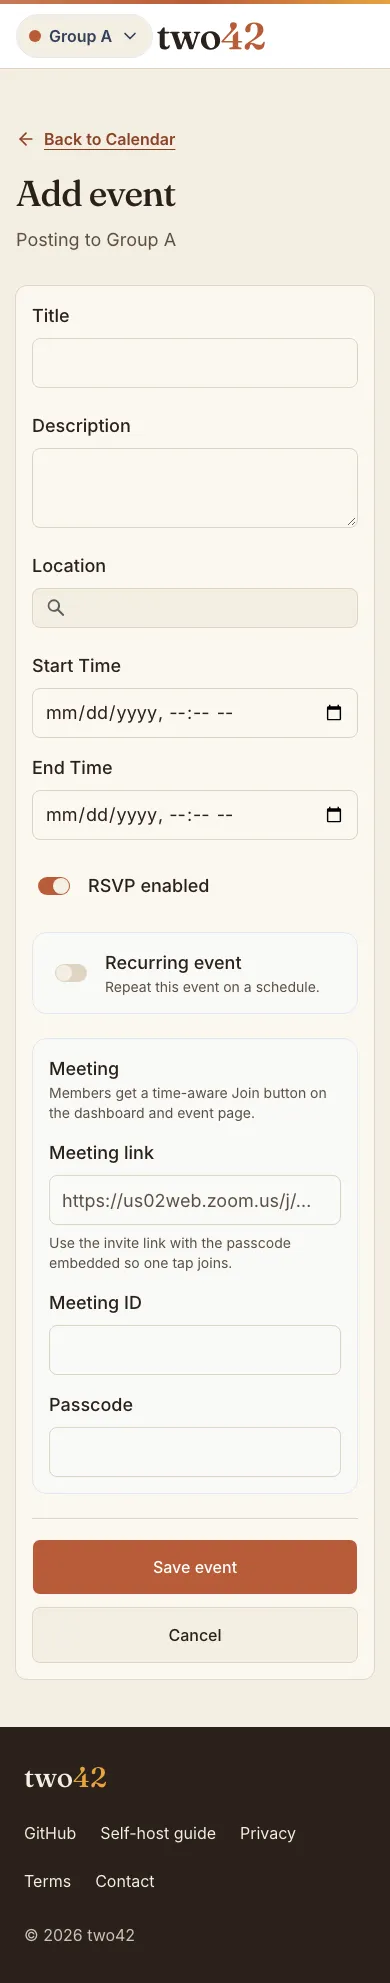
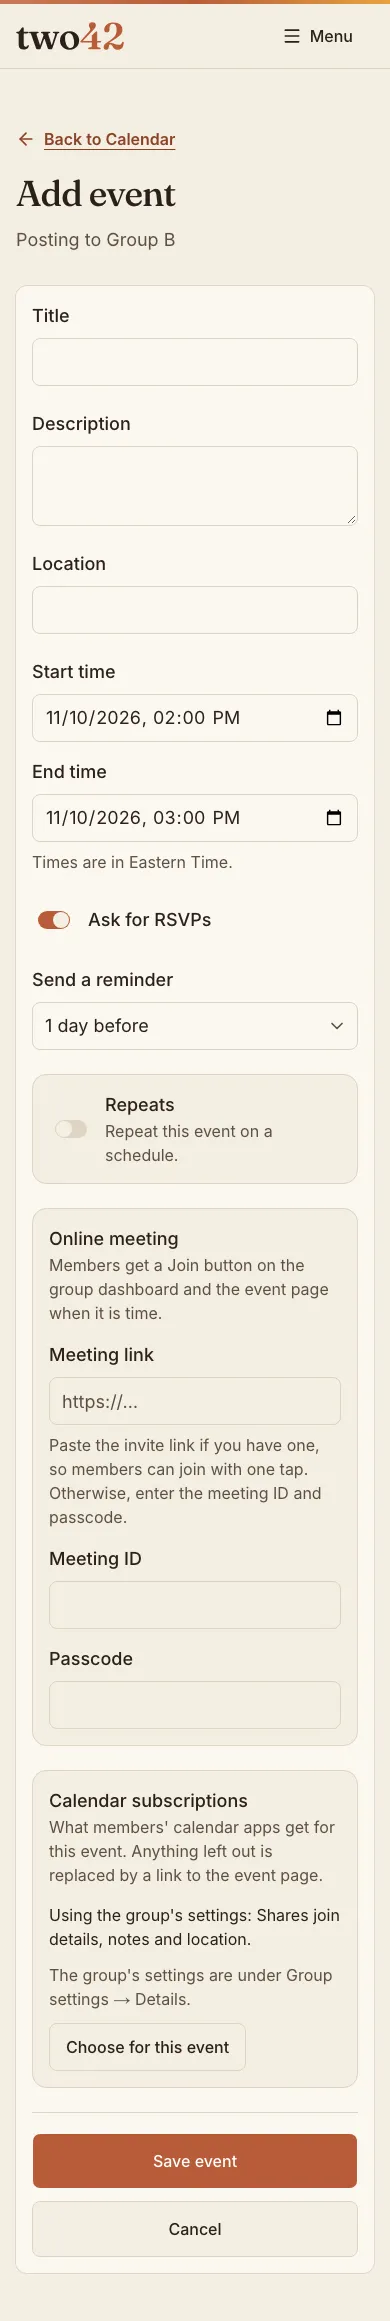
docs(design): update the design doc and agent notes to match the shipped frame (#744)
* docs(design): update the design doc and agent notes to match the shipped frame

Retake the Invite links page-frame image from seeded data so it shows the
Group settings sidebar and the title at the 272px edge, swap the back-link
example for a label a page renders, correct the wordmark and signed-out
Sign in descriptions, and record that Lint is a required check on main.

* docs: describe Lint as a required check in the agent notes

* docs(design): retake the Add event phone image on the shipped frame

The image showed a group name beside the wordmark with no Menu button and
a footer under a signed-in page, against the text around it. Retaken at
390 from seeded data, signed in as the seeded leader of Group B.

* docs(design): remove the screenshots the design doc does not use

Two earlier pull requests committed their before and after evidence beside
the images DESIGN.md embeds. Nothing references these nineteen; pull request
evidence is hosted outside the repo.

diff --git a/docs/design/DESIGN.md b/docs/design/DESIGN.md
@@ -104,8 +104,8 @@ Every page is built from the same frame, so moving between sibling pages never m
 - **The account block** (`components/layout/AccountBlock.tsx`) shows the person's photo, or their initials, and their name; an operator, who has no profile in any church, is shown by their sign-in address. Its menu lists, in this order: **My profile**, **Settings**, **Church admin** (church admins only), **Platform** (operators only), then **Help**, **Privacy**, **Terms**, then **Sign out**, set apart as the last item. A row is listed only when it opens for that person, so a pending person gets Help, Privacy, Terms and Sign out, and an operator outside a church gets Platform and those same rows. The menu opens on click, tap, Enter or Space and closes with Escape. It never opens on hover.
 - **Sign out** appears once in the frame, in that menu. Signed in, there is no footer; Settings repeats Help, Privacy and Terms.
 - **Church admin, Platform and Group settings pages** use the same frame with their own page list. Church admin and Platform are led by the way back to Home. Group settings, for the group's leaders only, is led by the way back to the group, named for it, and lists Details, Requests, Privacy and joining, Invite links, Teams and Labels, with the number of requests to join waiting on Requests. Group settings opens on Details.
-- **The wordmark** takes a member to the page that lists all of their groups. Its link is at least 44px tall in the sidebar, as the 42 mark, and in the phone bar.
-- **Signed out**, the header offers **Sign in** at every width and the page ends with the footer.
+- **The wordmark** takes a member to Home (`/dashboard`): the page that lists all of their groups, or for a member of one group, that group's Home. Its link is at least 44px tall in the sidebar, as the 42 mark, and in the phone bar.
+- **Signed out**, the header offers **Sign in** at every width, except on the sign-in page itself, and the page ends with the footer.
 
 Who sees which row is decided on the server, from the signed-in person's own row (`components/layout/account.ts`, built in `app/layout.tsx`).
 
@@ -145,7 +145,7 @@ Why this order:
 
 - **Title** — espresso Fraunces, the page's only `h1`.
 - **Subtitle** — optional, one line of plain copy.
-- **Back link** — optional, above the title, labelled `Back to {parent page name}` ("Back to Group settings", "Back to Calendar"), at a 44px target. A back link always names its parent page; there is no bare "Back".
+- **Back link** — optional, above the title, labelled `Back to {parent page name}` ("Back to Lessons", "Back to Calendar"), at a 44px target. A back link always names its parent page; there is no bare "Back".
 - **Primary action** — optional, right of the title on desktop and full width below the subtitle on phone.
 
 **Form pages** take their title from `PageHeader`, never from a `CardTitle`, and end with Save + Cancel: the primary Save first, Cancel returning to the back link's page.

diff --git a/CLAUDE.md b/CLAUDE.md
@@ -82,7 +82,7 @@ Full rationale, the helper inventory, and the deviations register: [`docs/securi
   - **Where in the inventory matters.** `npm run guard:tenancy` parses the `## App routes and pages` and `## Lib helpers` sections and cross-checks every row against an actual `createServiceClient()` call site *and* the site count in the heading — a row there naming anything else fails the build twice over. `## Edge Functions` and `## Operator scripts` are not parsed; document those there, or in prose, and do not "fix" a guard failure by editing the script's exclusion lists.
 - A change that moves a tenancy or visibility boundary a signed-in member can see — RLS on people or content, the group frame, the directory scope — needs a Playwright spec in `e2e/` asserting the rendered consequence (names, options, counts; never layout), alongside its pgTAP proof. Existing boundaries are listed in `e2e/README.md`; the suite asserts boundaries only.
 - The `e2e` job in `.github/workflows/test.yml` runs the suite with `npx supabase start` on an ephemeral stack, and that is the only sanctioned way to run it in CI. Locally, `npm run test:e2e` runs against the shared stack with no reset — the seed is already applied there, and the one spec that mutates state forces the setting back to the seed default (off) in its `beforeAll` and `afterAll`.
-- `npm run lint` runs on every PR (the `Lint` job in `.github/workflows/test.yml`) with `--max-warnings=0`, so a warning fails the job. The job is **not** yet in `main`'s branch protection, so a red `Lint` does not physically block a merge — run it locally before pushing. It was broken repo-wide by a brace-expansion/minimatch conflict (#299) until #309 scoped the override by major; any older instruction to skip lint is stale.
+- `npm run lint` runs on every PR (the `Lint` job in `.github/workflows/test.yml`) with `--max-warnings=0`, so a warning fails the job. The job is a required check in `main`'s branch protection, so a red `Lint` blocks the merge — run it locally before pushing. It was broken repo-wide by a brace-expansion/minimatch conflict (#299) until #309 scoped the override by major; any older instruction to skip lint is stale.
 
 ## Git & PRs
 

diff --git a/AGENTS.md b/AGENTS.md
@@ -2,4 +2,4 @@
 
 - Run `npm install` with local/network access when dependency resolution is required. The sandboxed install path often times out or fails DNS resolution in this repo.
 - Brand and design decisions (wordmark, type, canonical color palette) live in [`docs/design/DESIGN.md`](docs/design/DESIGN.md) — the source of truth for any UI/theming work.
-- `npm run lint` runs on every PR (`Lint` job in `.github/workflows/test.yml`) with `--max-warnings=0` — a warning fails the job too. The job is not yet in `main`'s branch protection, so a red `Lint` does not physically block a merge; run it locally before pushing.
+- `npm run lint` runs on every PR (`Lint` job in `.github/workflows/test.yml`) with `--max-warnings=0` — a warning fails the job too. The job is a required check in `main`'s branch protection, so a red `Lint` blocks the merge; run it locally before pushing.
